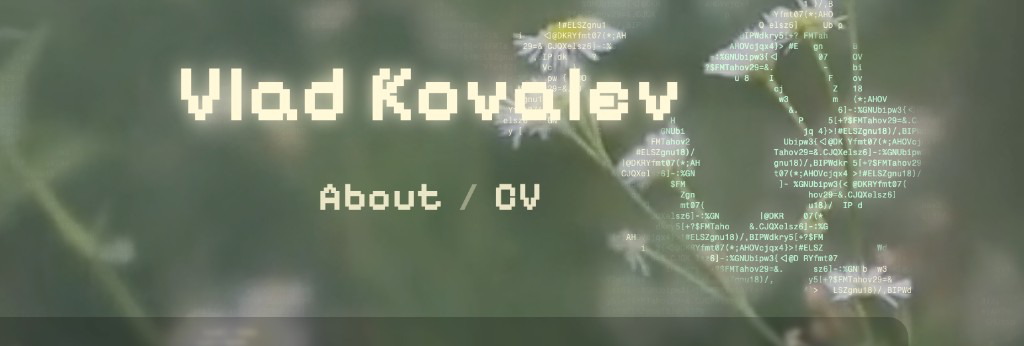
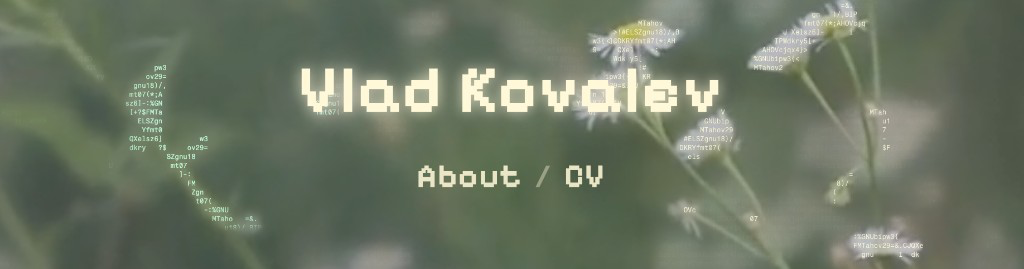
feat: update OG preview crop

diff --git a/index.html b/index.html
@@ -16,9 +16,9 @@
       property="og:description"
       content="Senior Platform Engineer. Data platforms on GCP and AWS — analytics, ML, and AI."
     />
-    <meta property="og:image" content="https://vladkovalev.com/og.png?v=2" />
+    <meta property="og:image" content="https://vladkovalev.com/og.png?v=3" />
     <meta property="og:image:width" content="1024" />
-    <meta property="og:image:height" content="346" />
+    <meta property="og:image:height" content="269" />
     <meta property="og:image:alt" content="Vlad Kovalev — About / CV" />
 
     <meta name="twitter:card" content="summary_large_image" />
@@ -27,7 +27,7 @@
       name="twitter:description"
       content="Senior Platform Engineer. Data platforms on GCP and AWS — analytics, ML, and AI."
     />
-    <meta name="twitter:image" content="https://vladkovalev.com/og.png?v=2" />
+    <meta name="twitter:image" content="https://vladkovalev.com/og.png?v=3" />
 
     <link rel="preconnect" href="https://fonts.googleapis.com" />
     <link rel="preconnect" href="https://fonts.gstatic.com" crossorigin />
